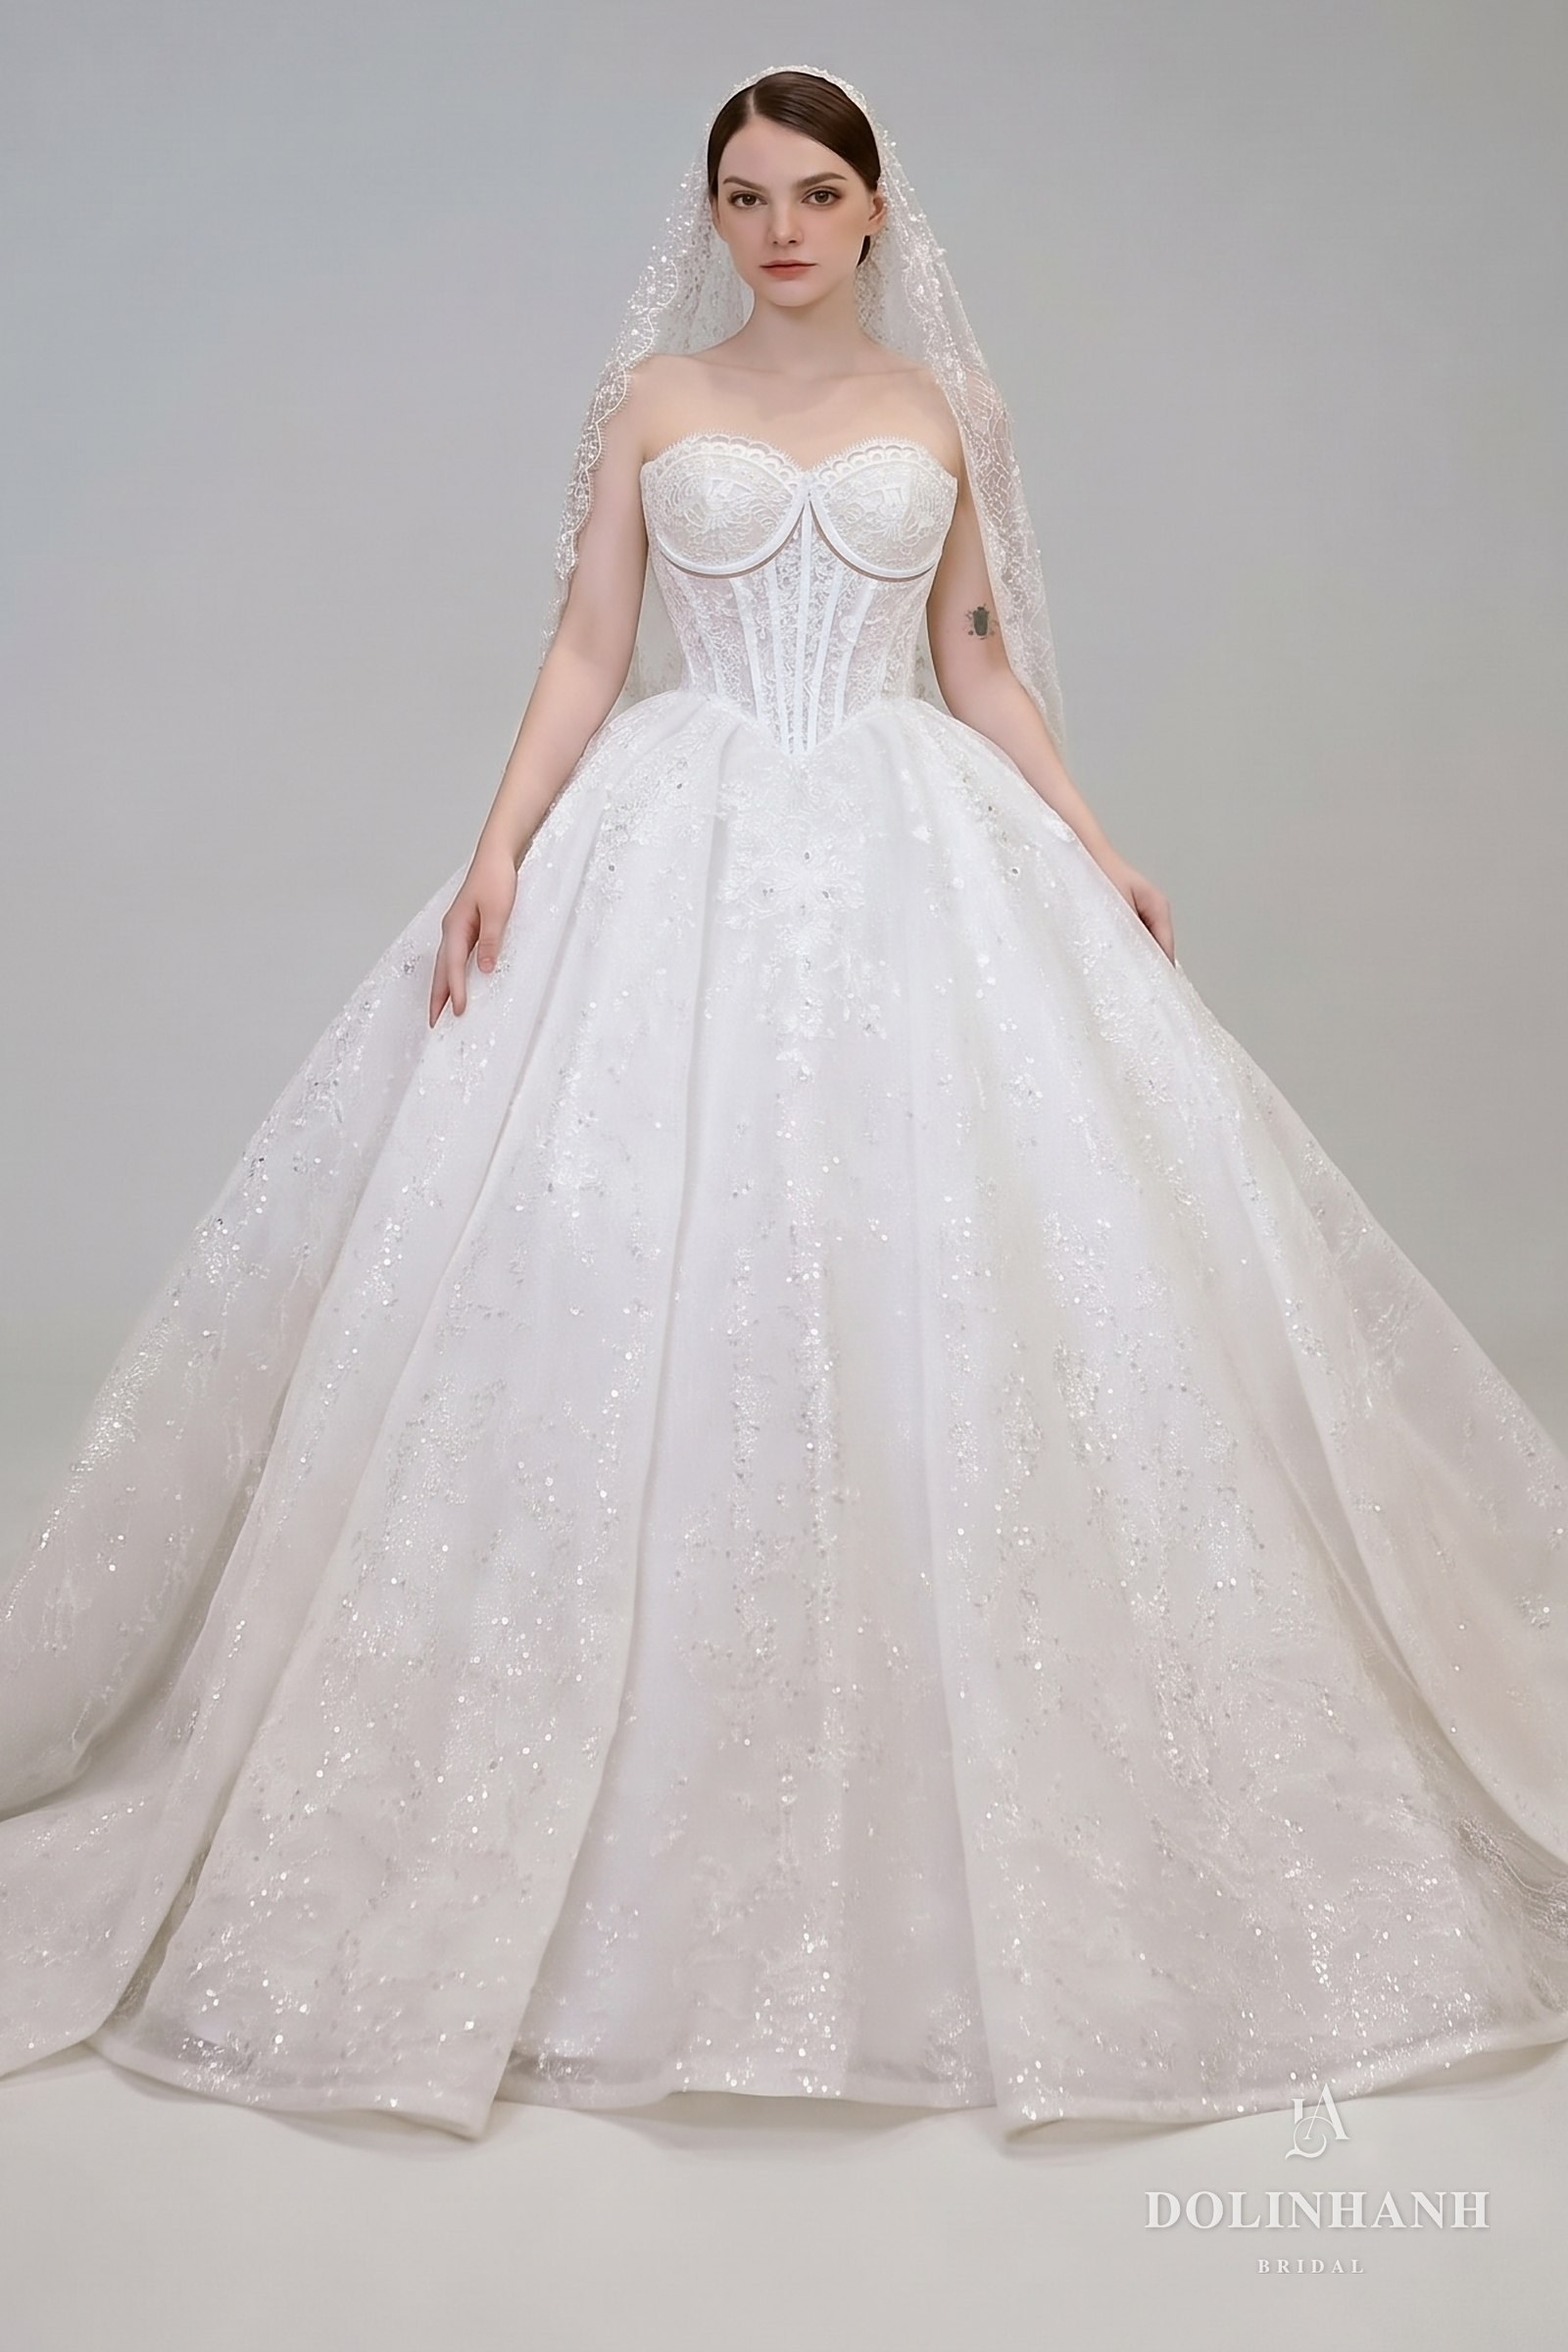
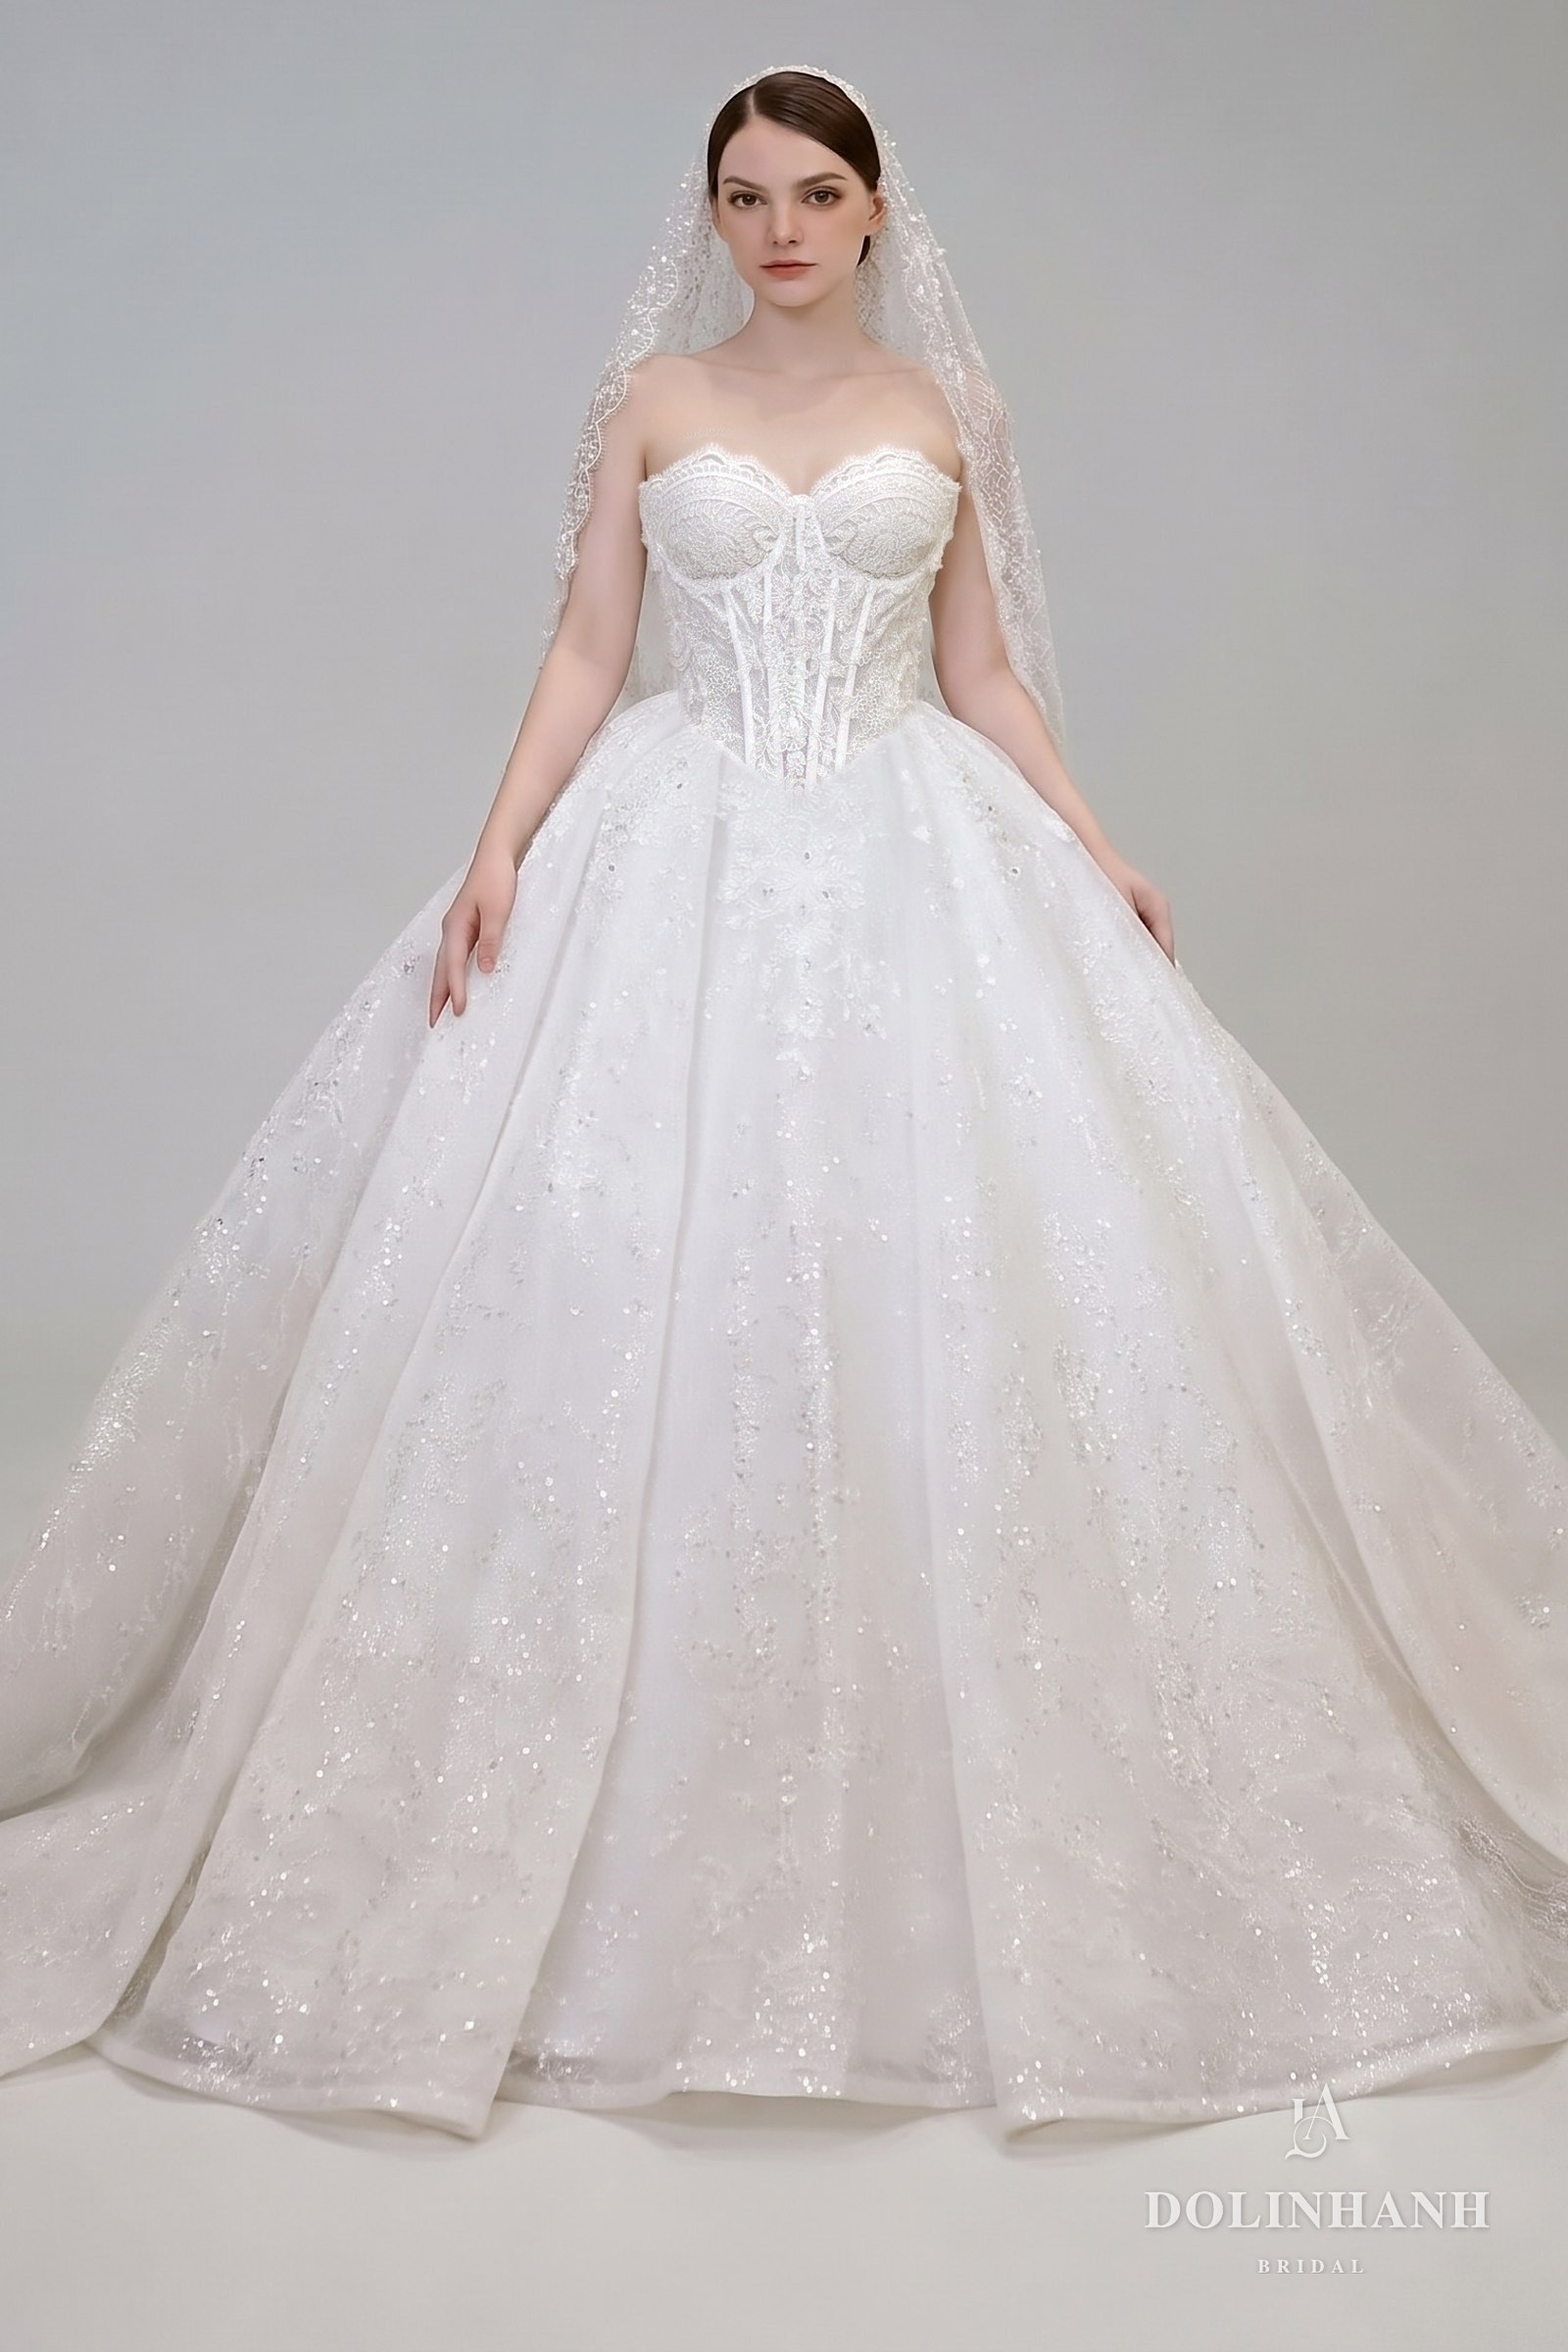
V170: sua anh MS 157: nguc theo vay that, giu chan vay cu

Changed region(s): [[0.4062, 0.1875, 0.6562, 0.3438]]

diff --git a/bo-suu-tap.html b/bo-suu-tap.html
@@ -1533,7 +1533,7 @@ src="https://www.facebook.com/tr?id=1358640082651240&ev=PageView&noscript=1"
         </figure>
         <figure data-dang="ballgown" data-mood="editorial" data-coso="hcm">
           <div class="sl-khung">
-            <div class="sl" data-img="anh/vay/ms157/01.jpg" data-lon="anh/vay/ms157/lon.jpg"></div>
+            <div class="sl" data-img="anh/vay/ms157/01.jpg?v=0511" data-lon="anh/vay/ms157/lon.jpg?v=0511"></div>
           </div>
           <figcaption><span class="kind" data-en="Dolinhanh Bridal" data-zh="Dolinhanh Bridal">Dolinhanh Bridal</span><span class="nm">MS 157</span><span class="de" data-en="Sparkle, grand skirt" data-zh="闪钻，华丽大裙摆">Lấp lánh, tùng xoè lớn</span><span class="gia">US$1,880</span></figcaption>
         </figure>
